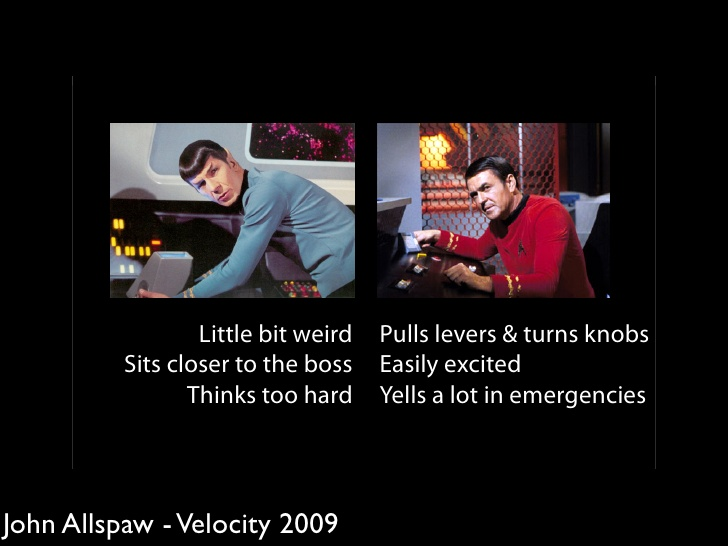
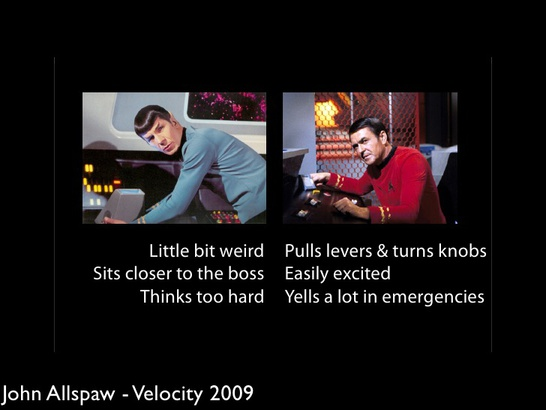
Restructure for better formatting
More references
Reduced spock-scotty image size to fit slide (retained credit)

diff --git a/index.html b/index.html
@@ -37,6 +37,13 @@
     <h3 class="date">10 December 2015</h3>
 </section>
 
+<section id="what-is-devops" class="slide level1">
+<h1>What is DevOps</h1>
+<ul>
+<li>Slides https://willthames.github.io/whatisdevops</li>
+<li>Source https://github.com/willthames/whatisdevops</li>
+</ul>
+</section>
 <section id="devops" class="slide level1">
 <h1>DevOps</h1>
 <blockquote>
@@ -48,24 +55,35 @@
 <ul>
 <li>A bit like Agile in that it extends the Definition of Done</li>
 </ul>
+<figure>
+<img src="works-fine-in-dev.jpg" alt="pre-DevOps" /><figcaption>pre-DevOps</figcaption>
+</figure>
 </section>
 <section id="a-little-bit-of-history" class="slide level1">
 <h1>A little bit of history</h1>
 <ul>
-<li>10 deploys a day!</li>
-<li>DevOps is coined</li>
+<li>Velocity 2009 - <a href="https://www.youtube.com/watch?v=LdOe18KhtT4">10 deploys a day</a>! <img src="spock-scotty.jpg" alt="Dev and Ops" /></li>
 </ul>
+</section>
+<section id="a-little-bit-of-history-1" class="slide level1">
+<h1>A little bit of history</h1>
+<ul>
+<li>late 2009 - <a href="https://blog.newrelic.com/2014/05/16/devops-name/">DevOps is coined and DevOpsDays born</a></li>
+<li>2010 - <a href="http://continuousdelivery.com">Continuous Delivery</a> published</li>
+</ul>
+<aside class="notes">
+DevOps was coined when Agile Systems Infrastructure was too long
+</aside>
 </section>
 <section id="this-is-all-obvious-right" class="slide level1">
 <h1>This is all obvious, right?</h1>
 <ul>
+<li>It definitely wasn't to a lot of us at the time</li>
 <li>Misaligned incentives held us back</li>
 </ul>
-<p>{%aside%} Developers are incentivized to deliver features (bonuses and sense of achievement) Operations are incentivized to maintain availability (bonuses and being paged) {%aside%}</p>
-</section>
-<section id="is-devops-just-continuous-delivery" class="slide level1">
-<h1>Is DevOps just Continuous Delivery?</h1>
-<p>{% aside %} * Continuous Delivery relies on DevOps. You'll struggle to attain it without the other key elements... {% aside %}</p>
+<aside class="notes">
+Developers are incentivized to deliver features (bonuses and sense of achievement) Operations are incentivized to maintain availability (bonuses and being paged)
+</aside>
 </section>
 <section id="cams" class="slide level1">
 <h1>CAMS</h1>
@@ -75,25 +93,40 @@
 <li>Measurement</li>
 <li>Sharing</li>
 </ul>
-<p>{% aside %} culture: trust, collaboration, continuous improvemtn automation: ability to provision and deploy without manual steps measurement: knowing what the business goals are and whether your improvemts are adding business value sharing: using the same source control, the same automation, the same measuring systems and the same targets {% aside %}</p>
+<aside class="notes">
+culture: trust, collaboration, continuous improvement automation: ability to provision and deploy without manual steps measurement: knowing what the business goals are and whether your improvemts are adding business value sharing: accountability, using the same source control, the same automation, the same measuring systems
+</aside>
 </section>
 <section id="what-have-we-done" class="slide level1">
 <h1>What have we done</h1>
 <ul>
 <li>Completely open automation</li>
 <li>Developers contributing to automation</li>
+<li>Repeatable provisioning and deployment</li>
+<li>Coding standards for automation</li>
 </ul>
 </section>
-<section id="what-isnt-devops" class="slide level1">
-<h1>What isn't DevOps</h1>
+<section id="where-would-we-like-to-go" class="slide level1">
+<h1>Where would we like to go</h1>
 <ul>
-<li>NoOps</li>
-<li>Panacea</li>
-<li></li>
+<li>Automated testing of automation (turtles all the way down)</li>
+<li>Developers pushing to production ( == Developers oncall)</li>
+<li>Complete self-service</li>
 </ul>
-<figure>
-<img src="webapp.png" alt="webapp inheritance graph" /><figcaption>webapp inheritance graph</figcaption>
-</figure>
+</section>
+<section id="further-insight" class="slide level1">
+<h1>Further insight</h1>
+<p>Patrick Debois, 2010, DevOps Down Under</p>
+<ul>
+<li><a href="https://vimeo.com/28291845">Video</a></li>
+<li><a href="http://www.slideshare.net/jedi4ever/devopsdays-downundervfinal/">Slides</a></li>
+</ul>
+<aside class="notes">
+Addresses most of the criticisms levelled at DevOps in the past six years, although some of it is now out of date. DevOps certification is now a thing, sadly.
+</aside>
+</section>
+<section id="questions" class="slide level1">
+<h1>Questions!</h1>
 </section>
     </div>
   </div>

diff --git a/overrides.css b/overrides.css
@@ -1,5 +1,4 @@
-.reveal h1 { font-size: 2.9em !important; }
+.reveal h1 { font-size: 2.0em !important; }
 .reveal li { margin: 10px 0 !important; }
-.reveal a, 
-.reveal a:hover { color: white !important; }
+.reveal a, .reveal a:hover { color: orange !important; }
 .reveal figcaption { display: none !important; }

diff --git a/slides.md b/slides.md
@@ -2,6 +2,11 @@
 % Will Thames
 % 10 December 2015
 
+# What is DevOps
+
+* Slides https://willthames.github.io/whatisdevops
+* Source https://github.com/willthames/whatisdevops
+
 # DevOps
 
 > DevOps is Developers and Operations working together
@@ -16,18 +21,20 @@
 
 # A little bit of history
 
-* [10 deploys a day](https://www.youtube.com/watch?v=LdOe18KhtT4)!
-* [DevOps is coined and DevOpsDays born](https://blog.newrelic.com/2014/05/16/devops-name/)
-* [Continuous Delivery](http://continuousdelivery.com)
-
+* Velocity 2009 - [10 deploys a day](https://www.youtube.com/watch?v=LdOe18KhtT4)!
 ![Dev and Ops](spock-scotty.jpg)
 
+# A little bit of history
+* late 2009 - [DevOps is coined and DevOpsDays born](https://blog.newrelic.com/2014/05/16/devops-name/)
+* 2010 - [Continuous Delivery](http://continuousdelivery.com) published
+
 <aside class="notes">
-Incredibly, DevOps is short for Agile Systems Infrastructure
+DevOps was coined when Agile Systems Infrastructure was too long
 </aside>
 
 # This is all obvious, right?
 
+* It definitely wasn't to a lot of us at the time
 * Misaligned incentives held us back
 
 <aside class="notes">
@@ -35,14 +42,6 @@ Developers are incentivized to deliver
 features (bonuses and sense of achievement)
 Operations are incentivized to maintain
 availability (bonuses and being paged)
-</aside>
-
-# Is DevOps just Continuous Delivery?
-
-<aside class="notes">
-* Continuous Delivery relies on DevOps.
-  You'll struggle to attain it without
-  the other key elements...
 </aside>
 
 # CAMS
@@ -58,8 +57,8 @@ automation: ability to provision and deploy without manual
   steps
 measurement: knowing what the business goals are and whether
   your improvemts are adding business value
-sharing: using the same source control, the same automation,
-  the same measuring systems and the same targets
+sharing: accountability, using the same source control, 
+  the same automation, the same measuring systems
 </aside>
 
 # What have we done
@@ -74,3 +73,18 @@ sharing: using the same source control, the same automation,
 * Automated testing of automation (turtles all the way down)
 * Developers pushing to production ( == Developers oncall)
 * Complete self-service
+
+# Further insight
+
+Patrick Debois, 2010, DevOps Down Under
+
+* [Video](https://vimeo.com/28291845)
+* [Slides](http://www.slideshare.net/jedi4ever/devopsdays-downundervfinal/)
+
+<aside class="notes">
+Addresses most of the criticisms levelled at DevOps in the past six years,
+although some of it is now out of date. DevOps certification is now a thing,
+sadly.
+</aside>
+
+# Questions!
